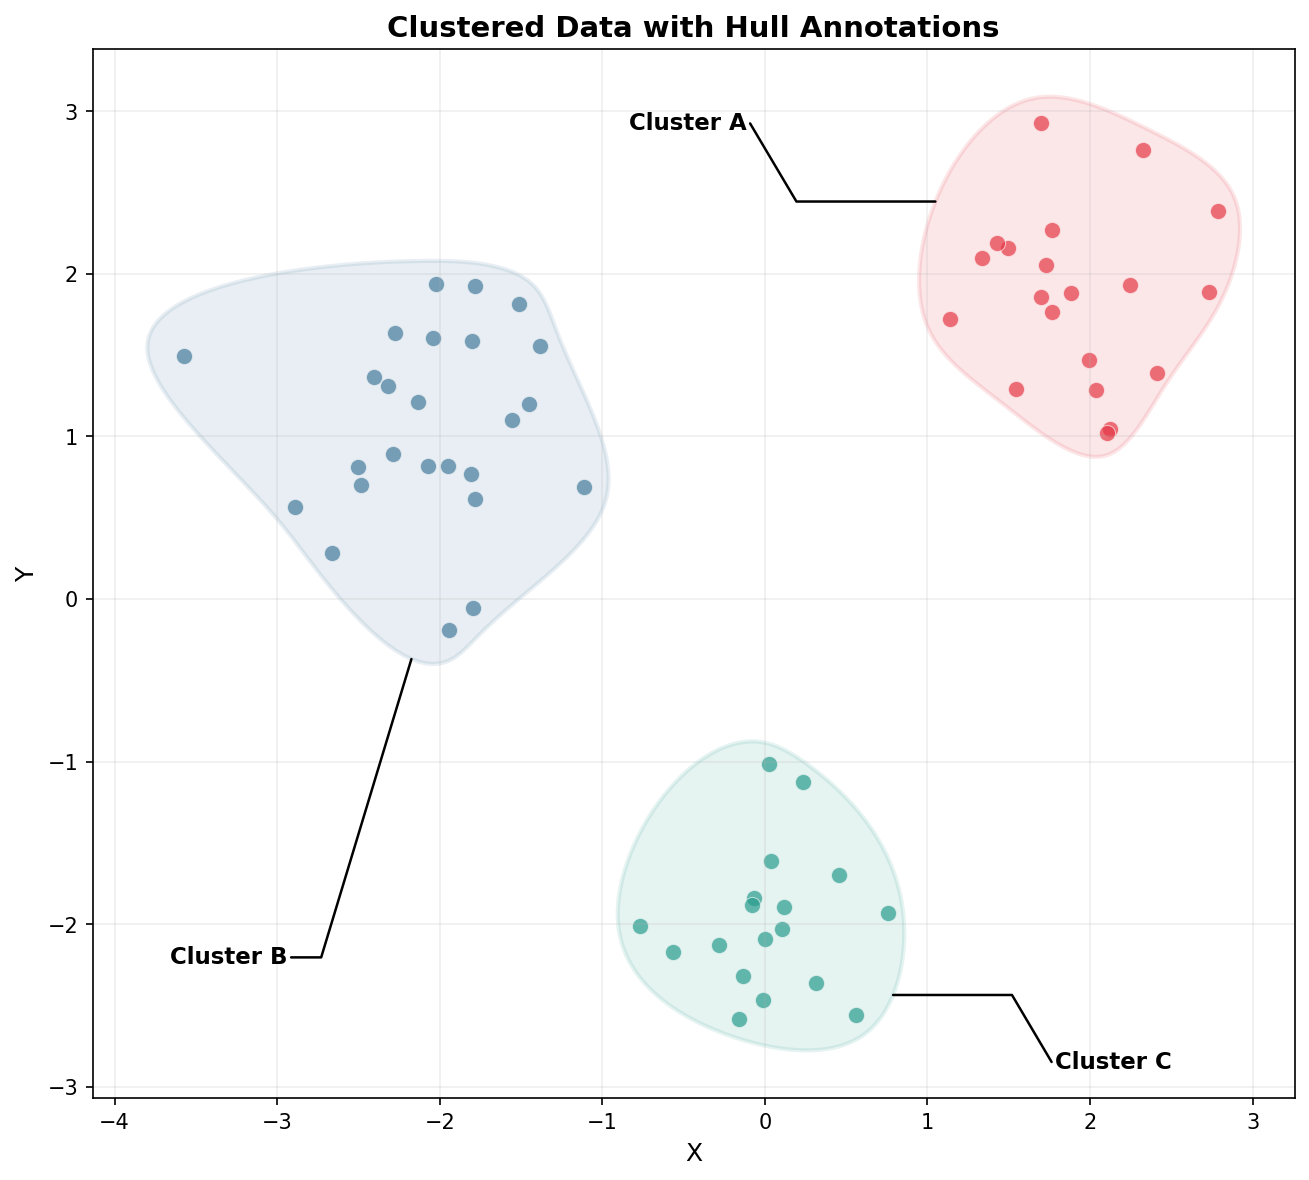
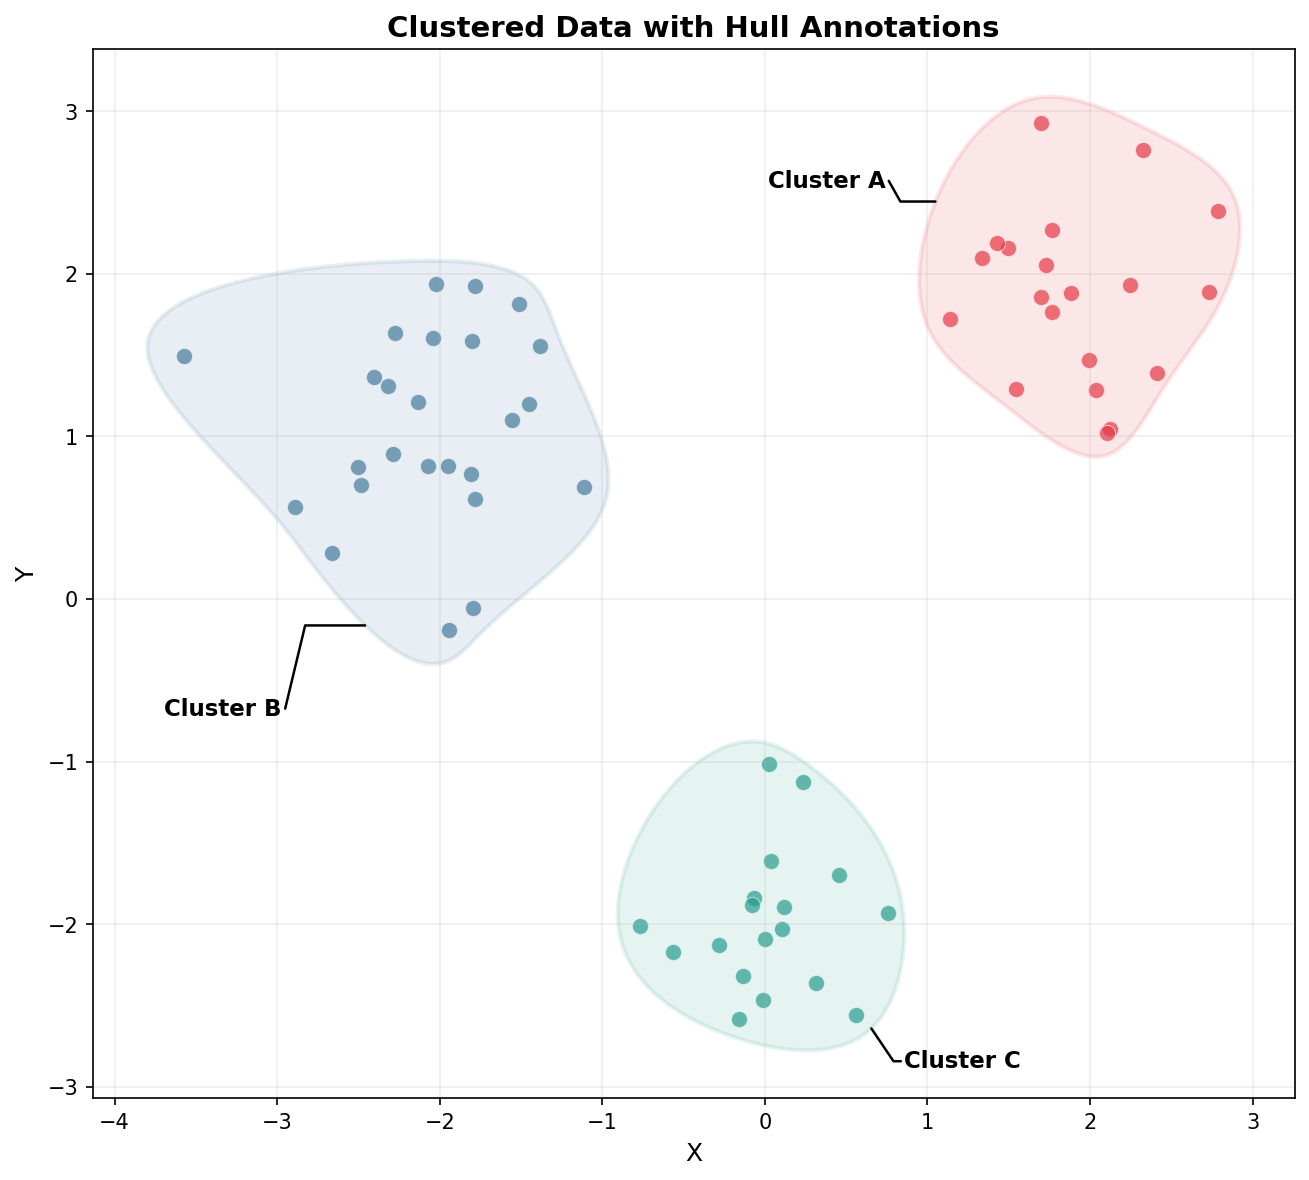
Tune hull label positioning to stay closer to hulls
- Reduced buffer distances (0.5x-1.2x instead of 1x-1.4x of label_buffer_factor)
- Cardinal direction multipliers reduced (0.6, 0.9, 1.2 instead of 1.0, 1.5, 2.0)
- Updated scoring to strongly prefer positions close to hull boundary
- Added bonus for labels in 'sweet spot' just outside the hull
- Fallback buffer reduced from 2.5x to 1.5x

This prevents labels from forcing excessive plot expansion while still
ensuring they stay outside polygons and avoid overlaps.

diff --git a/pyforce/annotations.py b/pyforce/annotations.py
@@ -1057,15 +1057,28 @@ def _score_label_position(
         overflow = label_top - ylim[1] + axis_margin
         score -= 100.0 + overflow * 30.0
 
-    # Distance to own hull (prefer closer for cleaner connectors, but not inside)
+    # Distance to own hull (strongly prefer closer for cleaner layout)
     hull_centroid = np.mean(hull_vertices, axis=0)
     hull_dist = np.sqrt((x - hull_centroid[0]) ** 2 + (y - hull_centroid[1]) ** 2)
 
-    # Optimal distance is roughly the hull size
+    # Find minimum distance to hull boundary
+    hull_boundary_dists = np.sqrt(
+        (hull_vertices[:, 0] - x) ** 2 + (hull_vertices[:, 1] - y) ** 2
+    )
+    min_hull_boundary_dist = np.min(hull_boundary_dists)
+    
+    # Optimal distance from hull boundary is small but outside
     hull_size = np.max(np.max(hull_vertices, axis=0) - np.min(hull_vertices, axis=0))
-    optimal_dist = hull_size * 0.8
-    dist_penalty = abs(hull_dist - optimal_dist) * 0.5
-    score -= dist_penalty
+    optimal_boundary_dist = hull_size * 0.15  # Close to hull
+    
+    # Strongly penalize being too far from hull boundary
+    if min_hull_boundary_dist > optimal_boundary_dist:
+        excess_dist = min_hull_boundary_dist - optimal_boundary_dist
+        score -= excess_dist * 3.0  # Strong penalty for being far away
+    
+    # Bonus for being just outside (sweet spot)
+    if 0 < min_hull_boundary_dist < optimal_boundary_dist * 2:
+        score += 20.0
 
     return score
 
@@ -1111,8 +1124,9 @@ def _find_best_label_position(
     hull_size = max_xy - min_xy
     max_hull_dim = max(hull_size)
 
-    buffer_min = max_hull_dim * label_buffer_factor
-    buffer_max = max_hull_dim * (label_buffer_factor + 0.4)
+    # Keep labels close to hulls - reduced buffer distances
+    buffer_min = max_hull_dim * label_buffer_factor * 0.5
+    buffer_max = max_hull_dim * label_buffer_factor * 1.2
 
     # Generate candidate positions
     candidates = _generate_hull_exterior_candidates(
@@ -1120,13 +1134,13 @@ def _find_best_label_position(
         buffer_min=buffer_min,
         buffer_max=buffer_max,
         n_radial=16,  # More angular resolution
-        n_buffer=4,  # More buffer options
+        n_buffer=3,  # Fewer buffer options, closer range
     )
 
-    # Also add cardinal direction candidates (fallback positions)
+    # Also add cardinal direction candidates (closer to hull)
     centroid = np.mean(hull_vertices, axis=0)
     center = (min_xy + max_xy) / 2
-    for buffer_mult in [1.0, 1.5, 2.0]:
+    for buffer_mult in [0.6, 0.9, 1.2]:
         buffer = max_hull_dim * label_buffer_factor * buffer_mult
         candidates.extend(
             [
@@ -1160,9 +1174,9 @@ def _find_best_label_position(
             best_score = score
             best_pos = pos
 
-    # If no valid position found, fall back to furthest cardinal direction
+    # If no valid position found, fall back to cardinal directions (still close)
     if best_pos is None or best_score == float("-inf"):
-        buffer = max_hull_dim * label_buffer_factor * 2.5
+        buffer = max_hull_dim * label_buffer_factor * 1.5
         fallback_candidates = [
             (center[0], max_xy[1] + buffer),
             (center[0], min_xy[1] - buffer),
